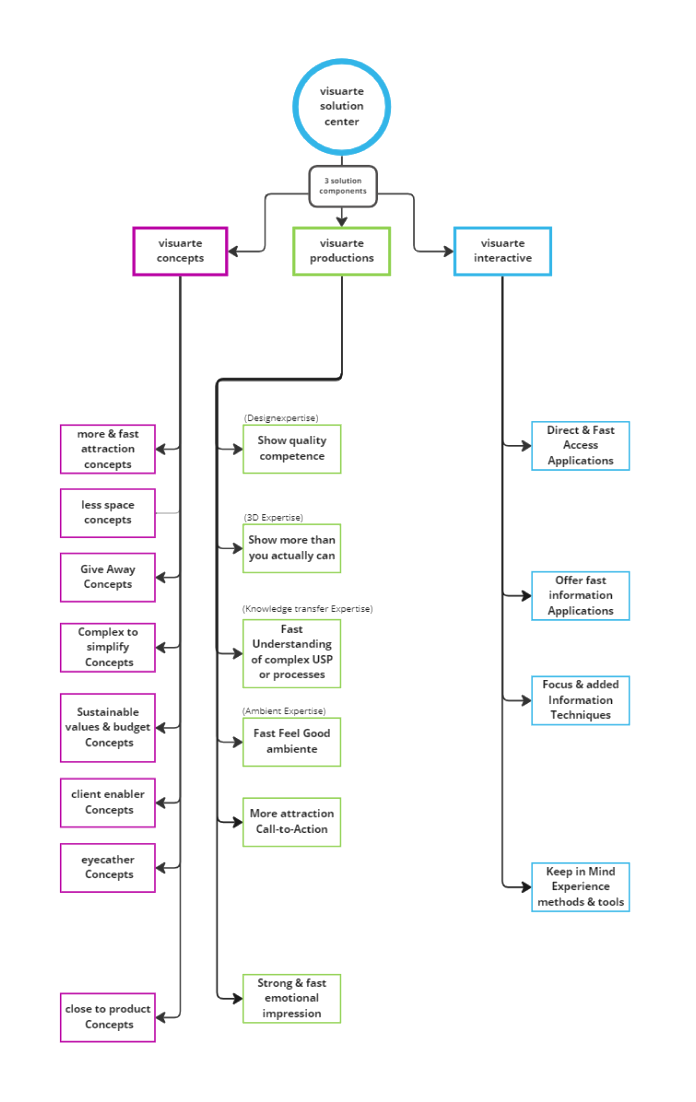
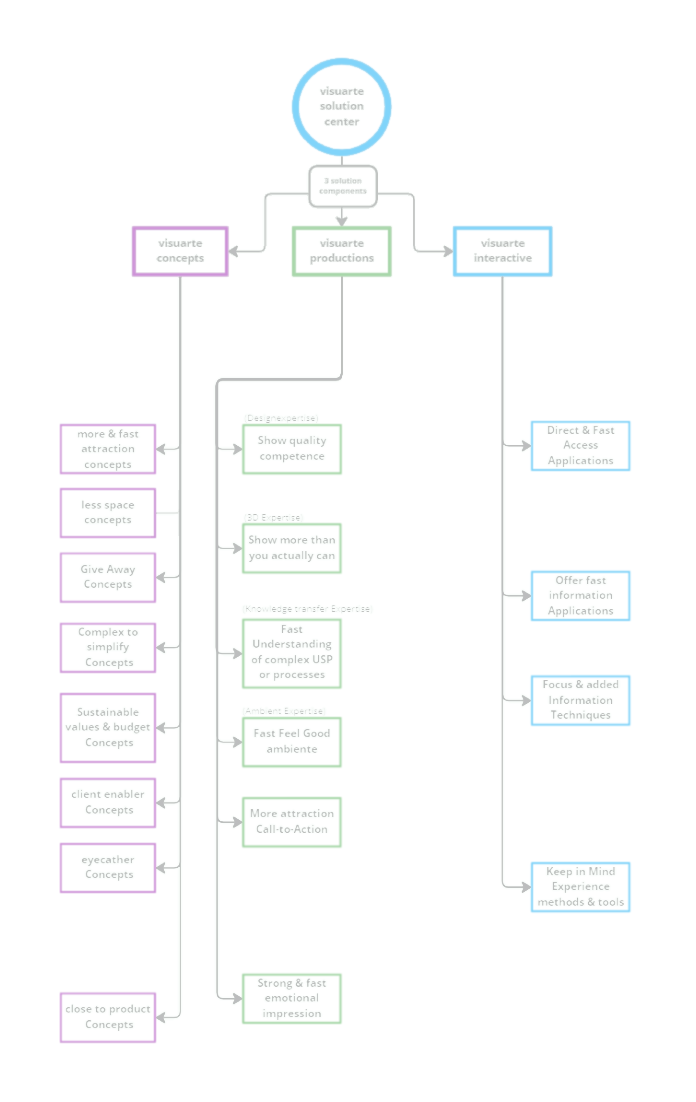
darkmode-update

diff --git a/src/styles/theme.ts b/src/styles/theme.ts
@@ -8,30 +8,30 @@ import "@fontsource/rubik";
 const Heading = defineStyleConfig({
   baseStyle: {
     fontWeight: "normal",
-    color: "brand_1",
+    color: "e0e0e0",
   },
   variants: {
     layer1: {
       fontSize: "4xl",
       fontWeight: "black",
-      color: "#bdbdbd",
+      color: "#e0e0e0",
       mb: "2",
     },
     layer2: {
       fontSize: "lg",
       fontWeight: "reg",
-      color: "#9e9e9e",
+      color: "#bdbdbd",
     },
     layer3: {
       fontSize: "md",
       fontWeight: "bold",
-      color: "#757575",
+      color: "#9e9e9e",
       mb: "2",
     },
     layer4: {
       fontSize: "lg",
       fontWeight: "light",
-      color: "#616161",
+      color: "#9e9e9e",
     },
   },
   defaultProps: {
@@ -43,7 +43,7 @@ const Text = defineStyleConfig({
   baseStyle: {
     fontSize: "md",
     fontWeight: "regular",
-    color: "#9e9e9e",
+    color: "#616161",
   },
   variants: {
     regular: {
@@ -61,7 +61,7 @@ const Text = defineStyleConfig({
     },
     emphasized: {
       fontSize: "md",
-      color: "#9e9e9e",
+      color: "#bdbdbd",
       fontWeight: "bold",
     },
     lessEmphasized: {
@@ -73,7 +73,8 @@ const Text = defineStyleConfig({
     small: {
       fontSize: "xs",
       fontWeight: "regular",
-      color: "#9e9e9e",
+      /* color: "#212121", */
+      color: "#757575",
       lineHeight: "1.2",
     },
     header: {
@@ -134,28 +135,26 @@ const Card = defineStyleConfig({
 const Checkbox = defineStyleConfig({
   baseStyle: {
     control: {
-      borderColor: "brand_4",
+      borderColor: "#757575",
+      bg: "transparent",
       borderWidth: "2",
       transition: "background-color 0.1s ease-in-out",
+
       _checked: {
-        bg: "#5f5f5f",
-        borderColor: "#5f5f5f",
-        color: "white",
+        bg: "#9e9e9e",
+        borderColor: "#9e9e9e",
       },
       _hover: {
-        bg: "#646464",
-        borderColor: "#646464",
-        color: "white",
+        bg: "#616161",
+        borderColor: "#757575",
       },
       _active: {
-        bg: "#5f5f5f",
-        borderColor: "#5f5f5f",
-        color: "white",
+        bg: "#757575",
+        borderColor: "#757575",
       },
       _focus: {
-        bg: "#5f5f5f",
-        borderColor: "#5f5f5f",
-        color: "white",
+        bg: "757575",
+        borderColor: "#757575",
       },
     },
   },
@@ -173,11 +172,10 @@ const Input = defineStyleConfig({
     _focus: {},
     field: {
       background: "transparent",
-      borderWidth: "1px",
-      borderColor: "#9e9e9e",
-        color: "#eeeeee",
-      _hover: {
-      },
+      borderWidth: "2px",
+      borderColor: "#616161",
+      color: "#e0e0e0",
+      _hover: {},
     },
     sizes: {},
     variants: {
@@ -189,16 +187,16 @@ const Input = defineStyleConfig({
   },
 });
 
-    /*    border: '1px solid',
+/*    border: '1px solid',
     borderColor: 'gray.200', */
-    /* borderRadius: "full", */
+/* borderRadius: "full", */
 const Textarea = defineStyleConfig({
   baseStyle: {
     background: "transparent",
-    borderWidth: "1px ",
-    borderColor: "#9e9e9e",
+    borderWidth: "2px ",
+    borderColor: "#616161",
     color: "#e0e0e0",
-    _focus: {}
+    _focus: {},
   },
   variants: {
     regular: {},

diff --git a/src/components/form.tsx b/src/components/form.tsx
@@ -157,11 +157,12 @@ export default function Form() {
                   <Image
                     src={data.logo}
                     alt="visuarte"
-                    opacity="55%"
+                    opacity="100%"
                     width="55%"
                     maxW="30vh"
                     mb="25"
-                    /* filter="invert(1)" */
+                    filter="invert(0.50)"
+                    /* filter="invert(0.87)" */
                   />
                   <Text variant="small">
                     Hofmannstrasse 10 | 81379 München <br />

diff --git a/src/components/linkcards.tsx b/src/components/linkcards.tsx
@@ -73,7 +73,8 @@ export default function LinkCards() {
                     borderRadius="md"
                   />
                 </Center>
-                <Text fontSize="sm">{data.endcards.label}</Text>
+                <Text fontSize="sm" variant={"emphasized"} mb="2">{data.endcards.label}</Text>
+                <Text fontSize="sm" variant={"regular"}>{data.endcards.label2}</Text>
               </CardBody>
             </Card>
           </Link>
